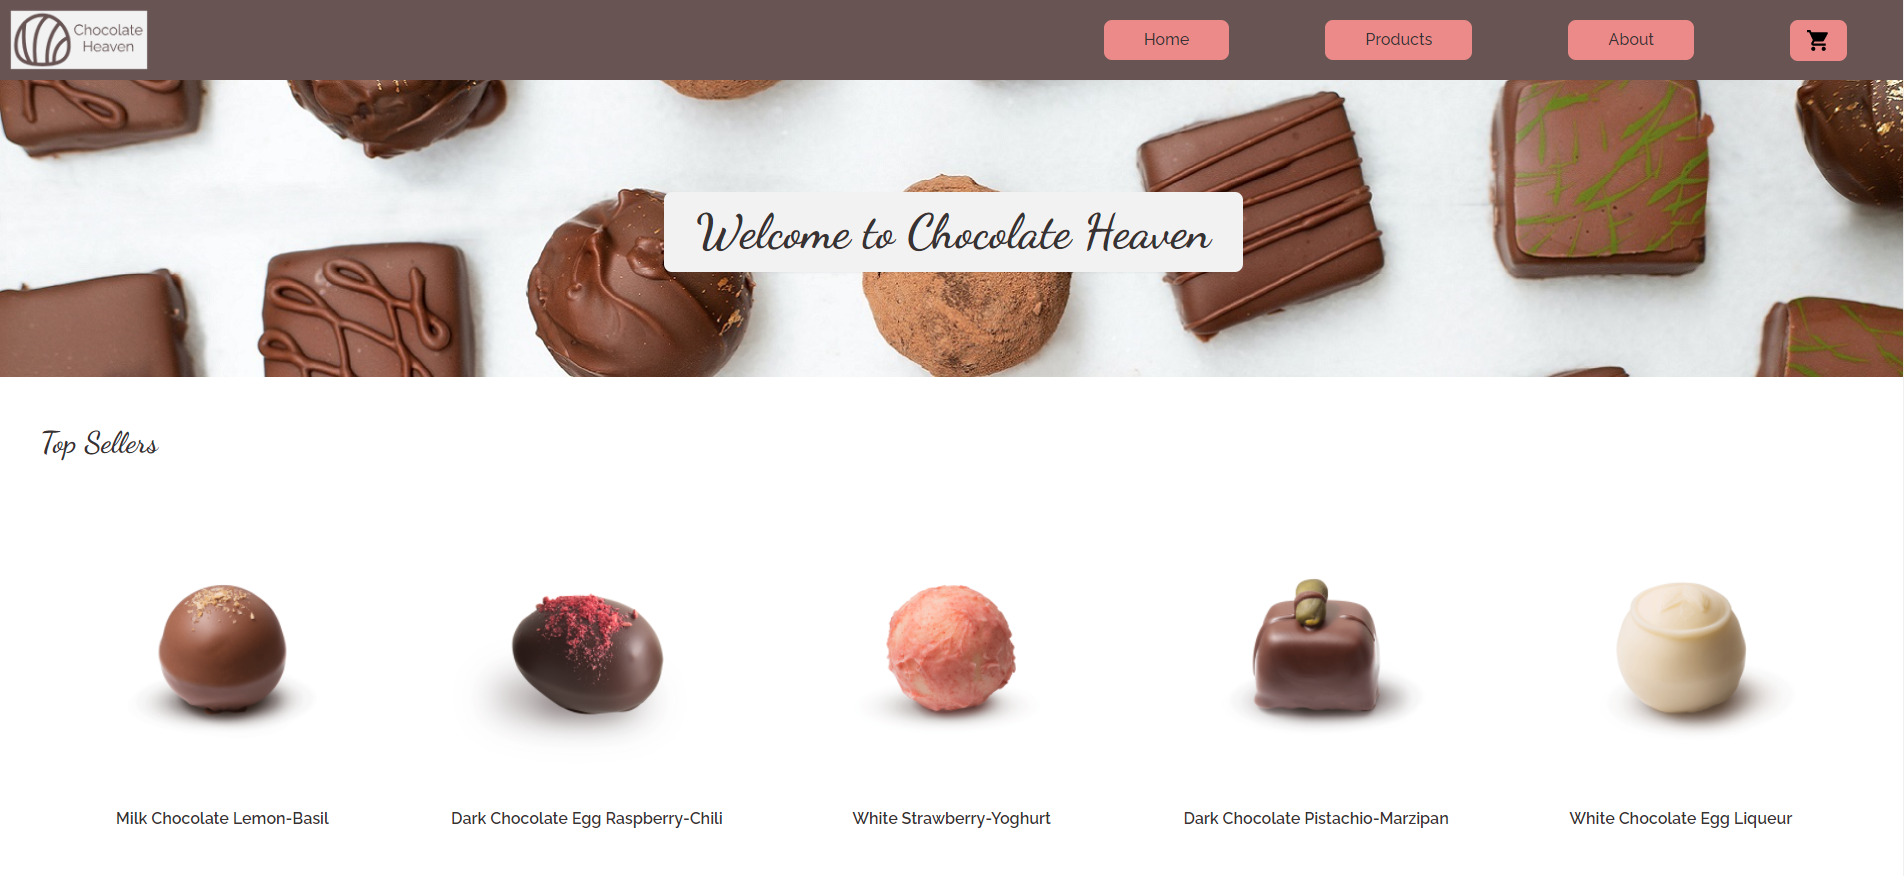
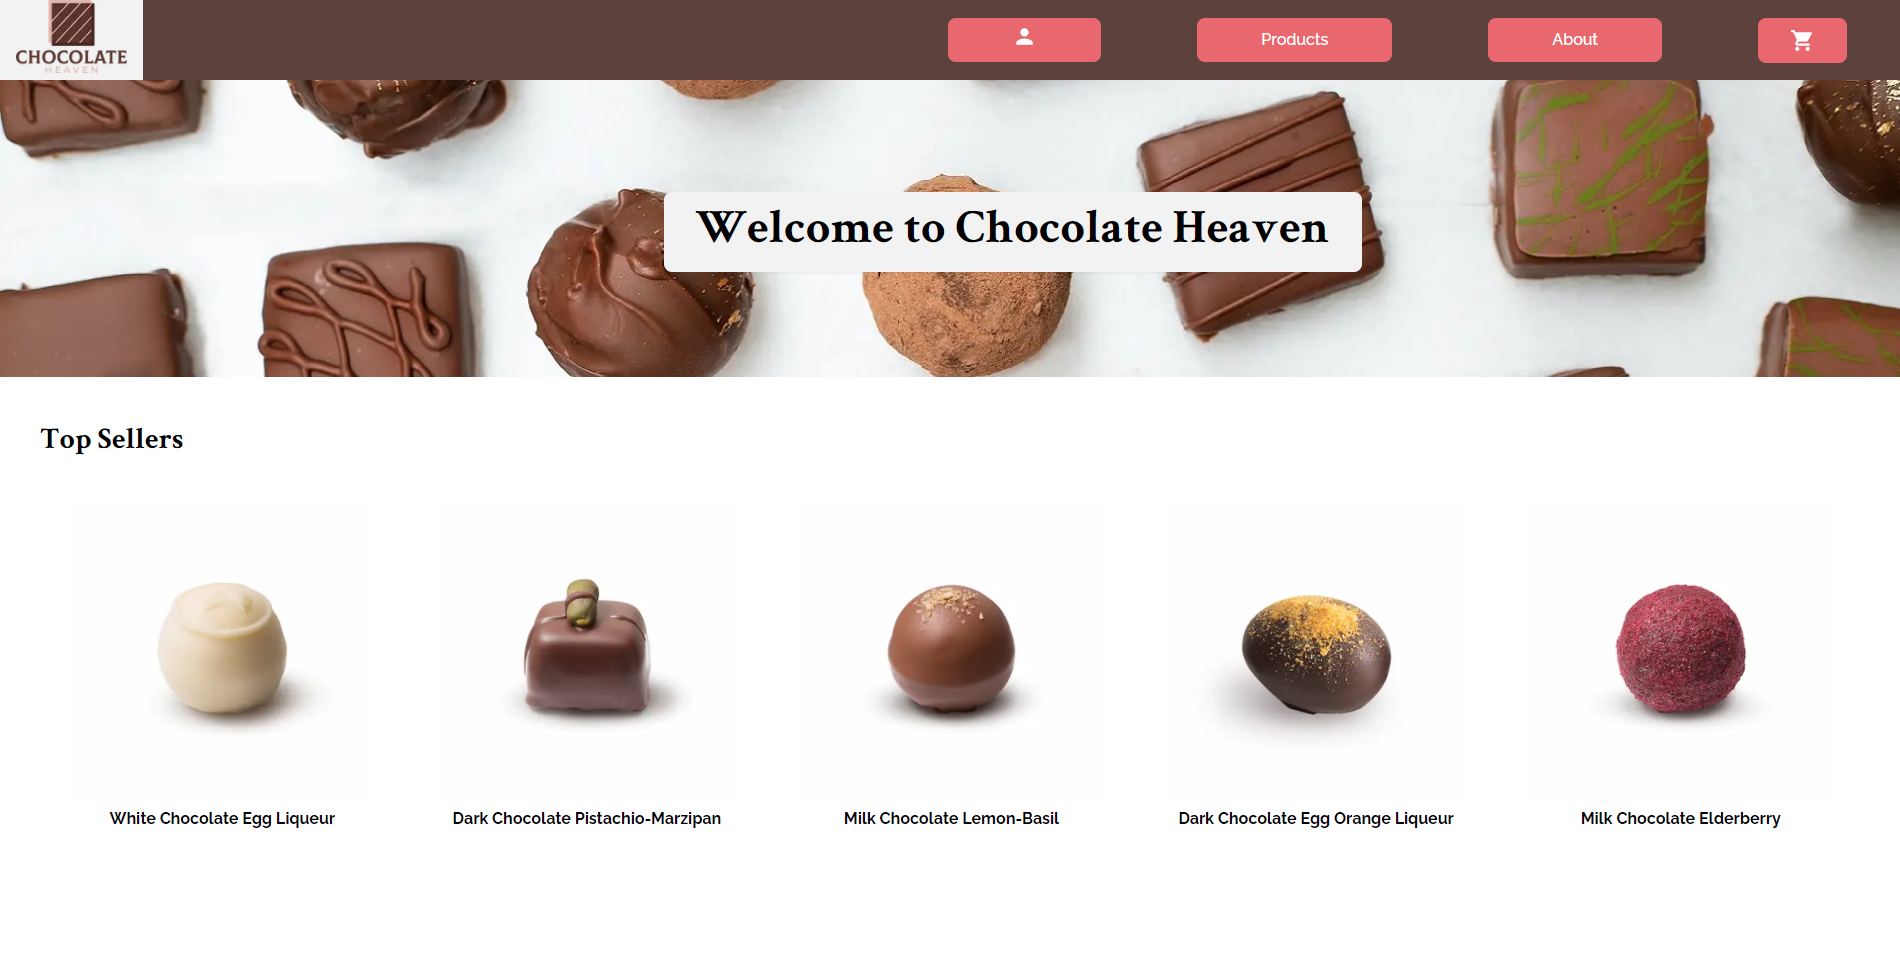
Tweak styling and add loading animation

diff --git a/pages/about.tsx b/pages/about.tsx
@@ -9,13 +9,13 @@ export default function About() {
       </Head>
 
       <div className="flex flex-wrap justify-center">
-        <h1 className="text-4xl mx-10 mt-10 h-5 w-full">About</h1>
+        <h1 className="mx-10 mt-10 h-5 w-full">About</h1>
 
         <div className="flex items-center mt-20">
           <Image src="/chef.jpg" alt="chef" width={500} height={332} />
 
           <div className="ml-40">
-            <h2 className="text-3xl my-10">
+            <h2 className="my-10">
               Everyday 100% compassion for your delight!
             </h2>
             <p className="max-w-xl">
@@ -34,7 +34,7 @@ export default function About() {
 
         <div className="flex items-center mt-40">
           <div className="mr-40">
-            <h2 className="text-3xl my-10">Innovation</h2>
+            <h2 className="my-10">Innovation</h2>
             <p className="max-w-xl">
               With us, craftsmanship and technical lead go hand in hand. With a
               love of craftsmanship, in addition to the annual range, seasonal
@@ -51,7 +51,7 @@ export default function About() {
         <div className="flex items-center mt-40">
           <Image src="/creativity.jpg" alt="" width={500} height={624} />
           <div className="ml-40">
-            <h2 className="text-3xl my-10">Creativity</h2>
+            <h2 className="my-10">Creativity</h2>
             <p className="max-w-xl">
               Creativity plays a major role in the manufacture of our products.
               Several times a year we create our own product collections on
@@ -63,7 +63,7 @@ export default function About() {
 
         <div className="flex items-center mt-40">
           <div className="mr-40">
-            <h2 className="text-3xl my-10">Love of craft</h2>
+            <h2 className="my-10">Love of craft</h2>
             <p className="max-w-xl">
               The love for handicraft has remained despite growth. Our specially
               developed, traditional recipes have become classics in the range
@@ -80,7 +80,7 @@ export default function About() {
         <div className="flex items-center my-40">
           <Image src="/quality.jpg" alt="chef" width={500} height={624} />
           <div className="ml-40">
-            <h2 className="text-3xl my-10">Highest raw material quality</h2>
+            <h2 className="my-10">Highest raw material quality</h2>
             <p className="max-w-xl">
               The quality of our products is our top priority. We use selected
               Fairtrade-certified cocoa varieties for our fine creations.

diff --git a/styles/globals.css b/styles/globals.css
@@ -54,3 +54,115 @@ main {
 .register-image {
   bottom: 50px;
 }
+
+/* Loading animation styling */
+.loader span {
+  width: 16px;
+  height: 16px;
+  border-radius: 50%;
+  display: inline-block;
+  position: absolute;
+  left: 50%;
+  margin-left: -10px;
+  -webkit-animation: 3s infinite linear;
+  -moz-animation: 3s infinite linear;
+  -o-animation: 3s infinite linear;
+}
+
+.loader span:nth-child(2) {
+  background: #5c413c;
+  -webkit-animation: brown 1.2s infinite linear;
+  -moz-animation: brown 1.2s infinite linear;
+  -o-animation: brown 1.2s infinite linear;
+}
+.loader span:nth-child(3) {
+  background: #fff;
+  z-index: 100;
+}
+.loader span:nth-child(4) {
+  background: #e6686f;
+  -webkit-animation: pink 1.2s infinite linear;
+  -moz-animation: pink 1.2s infinite linear;
+  -o-animation: pink 1.2s infinite linear;
+}
+
+@-webkit-keyframes pink {
+  0% {
+    -webkit-transform: translateX(20px);
+  }
+
+  50% {
+    -webkit-transform: translateX(-20px);
+  }
+
+  100% {
+    -webkit-transform: translateX(20px);
+    z-index: 200;
+  }
+}
+@-moz-keyframes pink {
+  0% {
+    -moz-transform: translateX(20px);
+  }
+
+  50% {
+    -moz-transform: translateX(-20px);
+  }
+
+  100% {
+    -moz-transform: translateX(20px);
+    z-index: 200;
+  }
+}
+@-o-keyframes pink {
+  0% {
+    -o-transform: translateX(20px);
+  }
+
+  50% {
+    -o-transform: translateX(-20px);
+  }
+
+  100% {
+    -o-transform: translateX(20px);
+    z-index: 200;
+  }
+}
+
+@-webkit-keyframes brown {
+  0% {
+    -webkit-transform: translateX(-20px);
+    z-index: 200;
+  }
+  50% {
+    -webkit-transform: translateX(20px);
+  }
+  100% {
+    -webkit-transform: translateX(-20px);
+  }
+}
+
+@-moz-keyframes brown {
+  0% {
+    -moz-transform: translateX(-20px);
+    z-index: 200;
+  }
+  50% {
+    -moz-transform: translateX(20px);
+  }
+  100% {
+    -moz-transform: translateX(-20px);
+  }
+}
+@-o-keyframes brown {
+  0% {
+    -o-transform: translateX(-20px);
+    z-index: 200;
+  }
+  50% {
+    -o-transform: translateX(20px);
+  }
+  100% {
+    -o-transform: translateX(-20px);
+  }
+}

diff --git a/pages/checkout.tsx b/pages/checkout.tsx
@@ -59,7 +59,11 @@ export default function Checkout({ chocolates, user, stripeKey }: Props) {
             headers: {
               'Content-Type': 'application/json',
             },
-            body: JSON.stringify({ order, domainUrl }),
+            body: JSON.stringify({
+              order,
+              domainUrl,
+              email: checkoutInfo.email,
+            }),
           });
 
           const session = await sessionResponse.json();
@@ -95,7 +99,7 @@ export default function Checkout({ chocolates, user, stripeKey }: Props) {
         }}
       >
         <div className="mb-20">
-          <h2 className="text-3xl my-8">Billing information</h2>
+          <h2 className="my-8">Billing information</h2>
 
           <label htmlFor="firstName">First Name</label>
           <br />
@@ -283,7 +287,7 @@ export default function Checkout({ chocolates, user, stripeKey }: Props) {
         </div>
 
         <div>
-          <h2 className="text-3xl my-8">Contact information</h2>
+          <h2 className="my-8">Contact information</h2>
 
           <label htmlFor="email">Email Address</label>
           <br />

diff --git a/pages/index.tsx b/pages/index.tsx
@@ -22,7 +22,7 @@ export default function Home({ chocolateSelection }: Props) {
         </h1>
 
         <div className="mx-10">
-          <h2 className="text-3xl my-10">Top Sellers</h2>
+          <h2 className="my-10">Top Sellers</h2>
 
           <div className="flex flex-wrap justify-around mb-14">
             {chocolateSelection &&
@@ -48,7 +48,7 @@ export default function Home({ chocolateSelection }: Props) {
 
         <div className="flex items-center justify-center my-40">
           <div className="mr-40">
-            <h2 className="text-3xl my-10">About us</h2>
+            <h2 className="my-10">About us</h2>
             <p className="max-w-xl mb-10">
               Being a chocolatier and confectioner with more than 50 years of
               experience in handcrafting fine pralines and chocolate, we give

diff --git a/pages/api/create-checkout-session.ts b/pages/api/create-checkout-session.ts
@@ -8,7 +8,7 @@ export default async function handler(
   req: NextApiRequest,
   res: NextApiResponse,
 ) {
-  const { order, domainUrl } = req.body;
+  const { order, domainUrl, email } = req.body;
   const chocolates = await getChocolates();
 
   const items = order.map((singleOrder: Order) => {
@@ -28,6 +28,7 @@ export default async function handler(
   });
 
   const session = await stripe.checkout.sessions.create({
+    customer_email: email,
     payment_method_types: ['card'],
     line_items: items,
     mode: 'payment',

diff --git a/components/AddItemOverlay.tsx b/components/AddItemOverlay.tsx
@@ -7,7 +7,7 @@ export default function AddItemOverlay() {
   const dispatch = useAppDispatch();
 
   return (
-    <div className="fixed bottom-0 right-0 bg-gray-300 bg-opacity-80 shadow-2xl rounded-lg flex flex-wrap justify-end h-52 mr-10 mb-20 z-50">
+    <div className="fixed bottom-0 right-0 bg-gray-200 bg-opacity-90 shadow-2xl rounded-lg flex flex-wrap justify-end h-52 mr-10 mb-20 z-50">
       <button
         className="h-0 pr-4 pt-4"
         onClick={() => dispatch(addItemOverlayActions.toggle(false))}

diff --git a/components/ProfileOverlay.tsx b/components/ProfileOverlay.tsx
@@ -42,7 +42,14 @@ export default function ProfileOverlay() {
         <Image src="/close.svg" alt="close button" width={40} height={40} />
       </button>
 
-      {fetching && <div>Loading...</div>}
+      {fetching && (
+        <div className="loader">
+          <div className="text-xl mb-5 mt-32 font-semibold">Loading...</div>
+          <span />
+          <span />
+          <span />
+        </div>
+      )}
 
       {!fetching && !user.isSessionValid && (
         <>

diff --git a/pages/cart.tsx b/pages/cart.tsx
@@ -21,7 +21,7 @@ export default function Cart({ chocolates }: Props) {
         <title>Shopping Cart | Chocolate Heaven</title>
       </Head>
 
-      <h1 className="text-4xl m-10 h-5 w-full">Cart</h1>
+      <h1 className="m-10 h-5 w-full">Cart</h1>
       <div className="flex flex-wrap justify-evenly">
         {order.map((singleOrder: Order) => {
           const chocolateInOrder = chocolates.find(

diff --git a/README.md b/README.md
@@ -4,11 +4,13 @@ A non-real ecommerce store for selling chocolates.
 
 ## Dependencies
 
-- Next
-- Typescript
-- PostgreSQL
+- [Next](https://nextjs.org/)
+- [Typescript](https://www.typescriptlang.org/)
+- [PostgreSQL](https://www.postgresql.org/)
 - [Postgres.js](https://github.com/porsager/postgres)
 - [Tailwindcss](https://tailwindcss.com/)
+- [Redux](https://react-redux.js.org/)
+- [Stripe](https://stripe.com/at)
 - [JS Cookie](https://github.com/js-cookie/js-cookie)
 - [dotenv-safe](https://github.com/rolodato/dotenv-safe)
 - [ley](https://github.com/lukeed/ley)
@@ -69,3 +71,5 @@ Create a Heroku account at [Heroku - Sign up](https://signup.heroku.com/), and t
 ![Preview of Homepage](/public/home.png 'Preview of Homepage')
 ![Preview of the products page](/public/products.png 'Preview of the products page')
 ![Preview of a single product](/public/product.png 'Preview of a single product')
+![Preview of the stripe checkout](/public/stripe.png 'Preview of the stripe checkout')
+![Preview of the order history](/public/history.png 'Preview of the order history')
